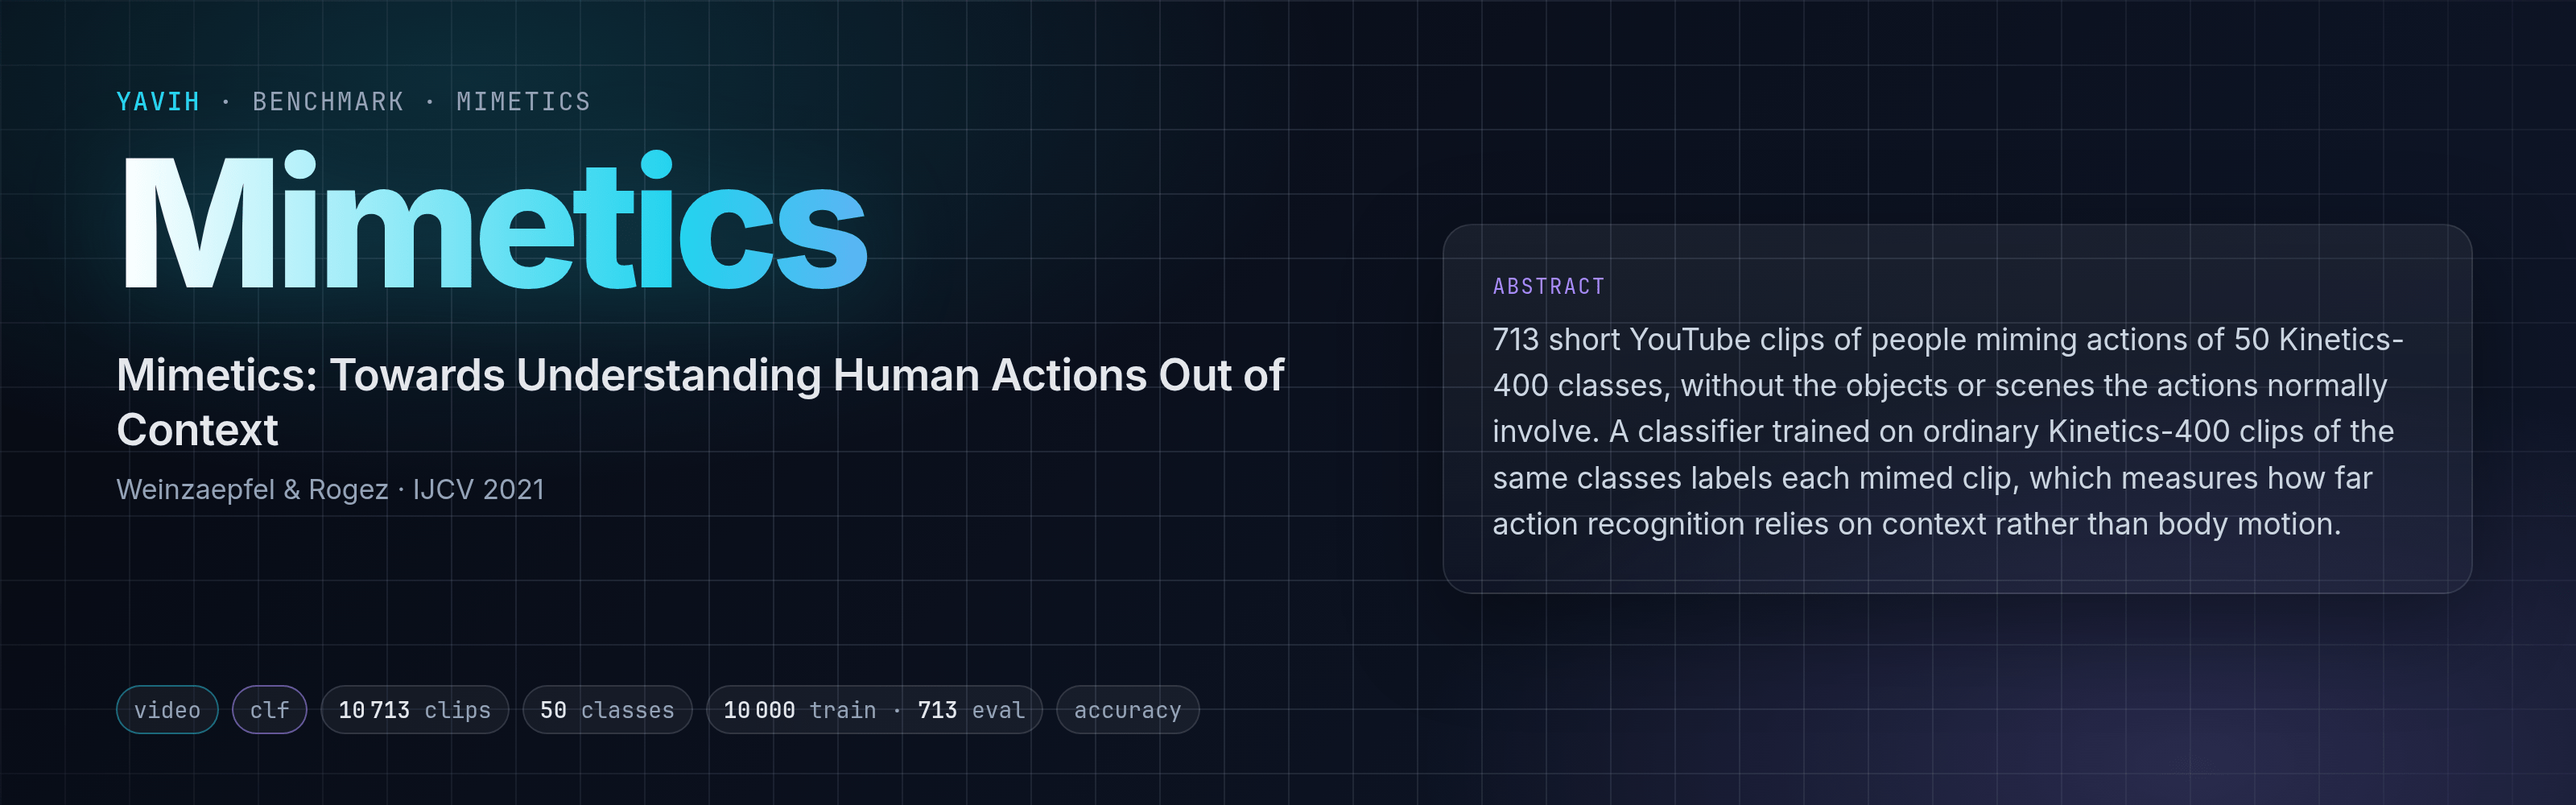
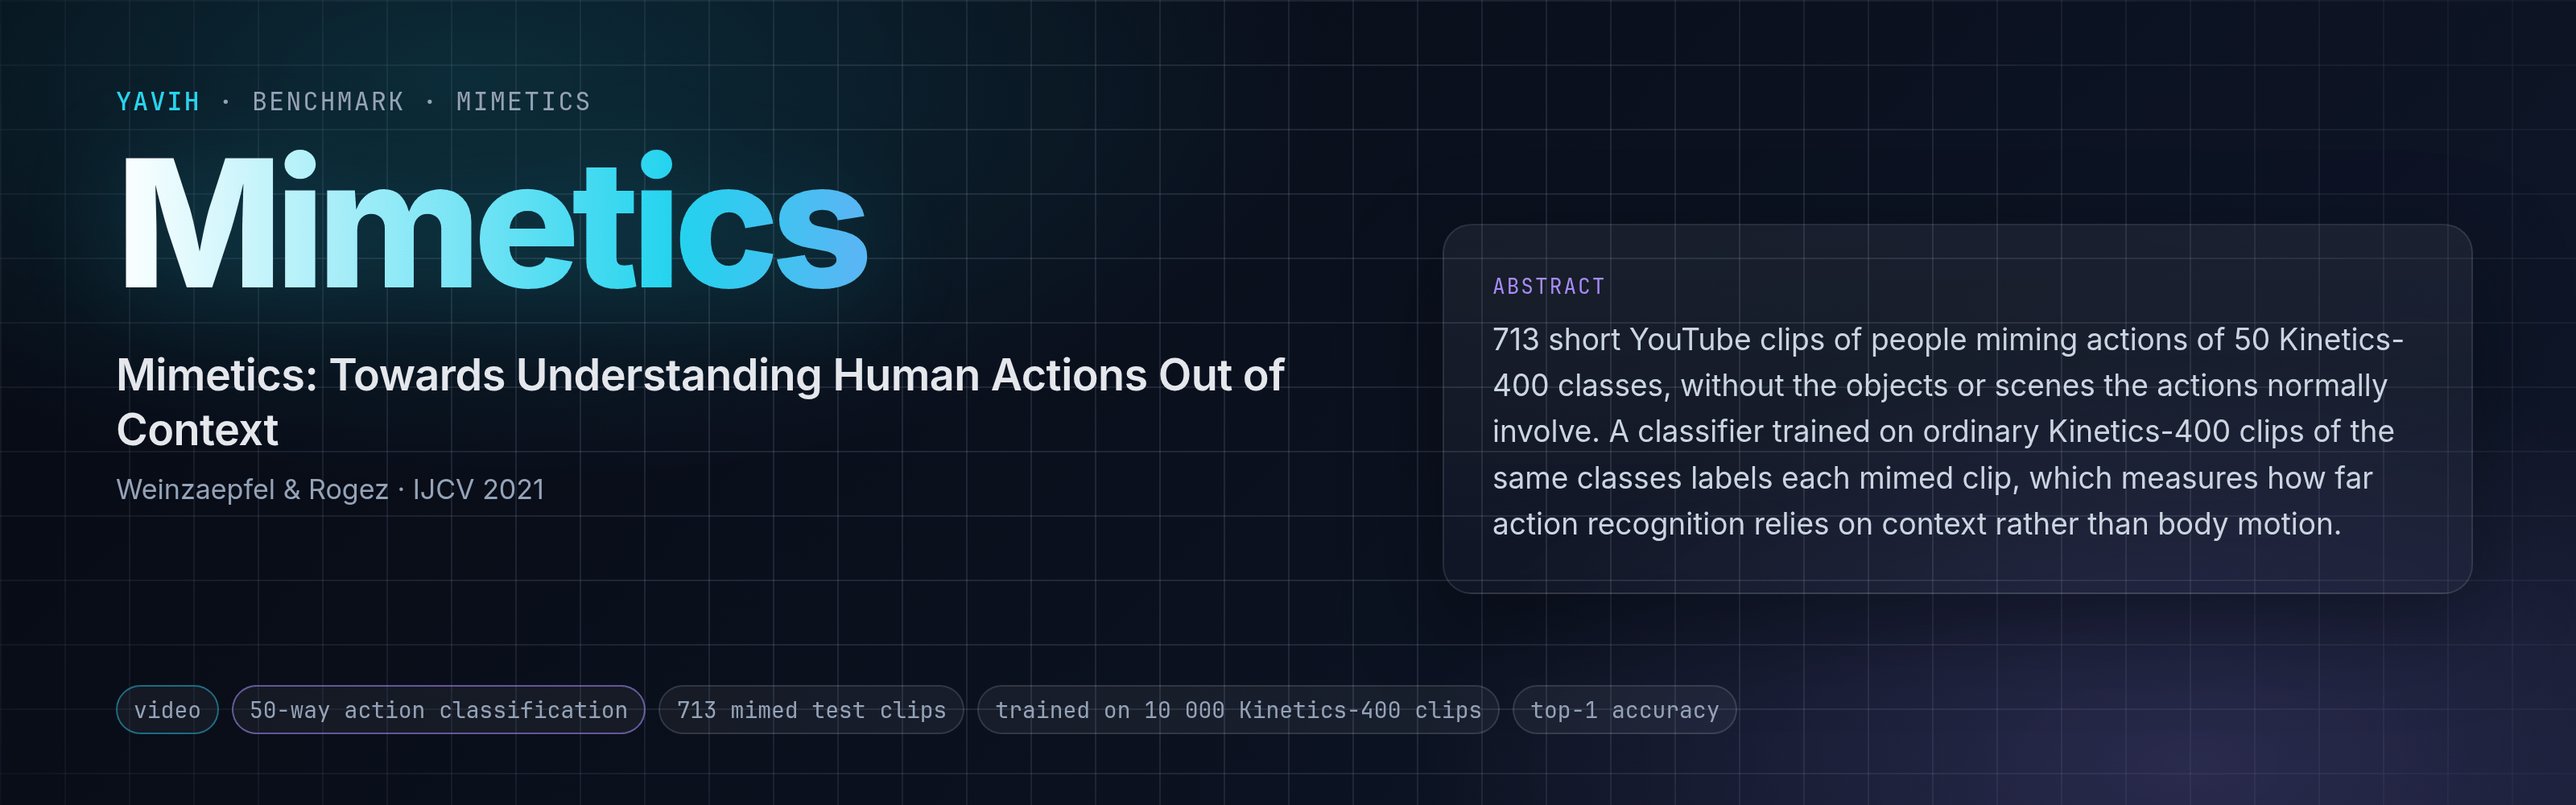
mimetics: setup.md and template: the torchvision / PyAV log-callback deadlock

Changed region(s): [[0.0938, 0.868, 0.6562, 0.899]]

diff --git a/benchmarks/mimetics/bridge_template.py b/benchmarks/mimetics/bridge_template.py
@@ -47,7 +47,8 @@ defaults below are those of the reference implementation (IntegralAction, https:
     norm      the model's pretraining constants with their source (never batch or dataset statistics).
 Gotchas (setup.md "## Gotchas"): one clip, one view (``views`` MUST be 1: no 10-window averaging); train and test
 clips come from different encoders and sizes, never branch on them; the model in ``.eval()``; declare precision
-honestly; labels and class order never reach a bridge.
+honestly; labels and class order never reach a bridge; after importing torchvision call ``av.logging.set_level(None)``
+(torchvision turns on PyAV's Python log callback, which deadlocks decoding with several decode workers).
 """
 
 from __future__ import annotations

diff --git a/benchmarks/mimetics/README.md b/benchmarks/mimetics/README.md
@@ -3,6 +3,15 @@
 [Paper](https://arxiv.org/abs/1912.07249) · [Homepage](https://europe.naverlabs.com/research/computer-vision/mimetics/) · [Dataset](https://europe.naverlabs.com/wp-content/uploads/2019/12/Mimetics_release_v1.0.zip) · [setup.md](setup.md)
 
 <!-- yavih:glance begin (generated from benchmark.yaml: python -m yavih.doctables --glance mimetics --write) -->
+| At a glance | Mimetics |
+|---|---|
+| **Task** | 50-way action classification · visual |
+| **Modality** | Video |
+| **Size** | 10 000 train / 713 test · 50 classes |
+| **Headline** | Accuracy (`acc`) · chance 2 % |
+| **Data** | Public download; fetched unattended · 0 GB of media · how: [setup.md](setup.md) |
+| **Licence** | Mimetics v1.0 (NAVER LABS Europe): the release (README, page) states no licence and asks to cite the paper. The Mimetics media are YouTube videos the user downloads and trims, subject to YouTube's terms and the uploaders' rights. … |
+| **Protocol** | Version 1 · scorer `clf` · needs yavih >=1.1,<2 · `yavih bench fetch mimetics` |
 <!-- yavih:glance end -->
 
 ## The task

diff --git a/benchmarks/mimetics/setup.md b/benchmarks/mimetics/setup.md
@@ -170,3 +170,7 @@ that YouTube no longer serves.
    400-class list of `k400`.
 6. **Missing test clips.** Coverage below 1 is expected (YouTube removals) and recorded with every number; two
    sites with different downloads score different subsets.
+7. **torchvision and PyAV.** Importing torchvision turns on PyAV's Python log callback
+   (`av.logging.set_level(av.logging.ERROR)`); with several decode workers (`--decode-workers`), a Kinetics-400 file
+   that makes FFmpeg log a message then deadlocks the extraction (every thread waiting, no error). A bridge that
+   imports torchvision calls `av.logging.set_level(None)` after the import.
